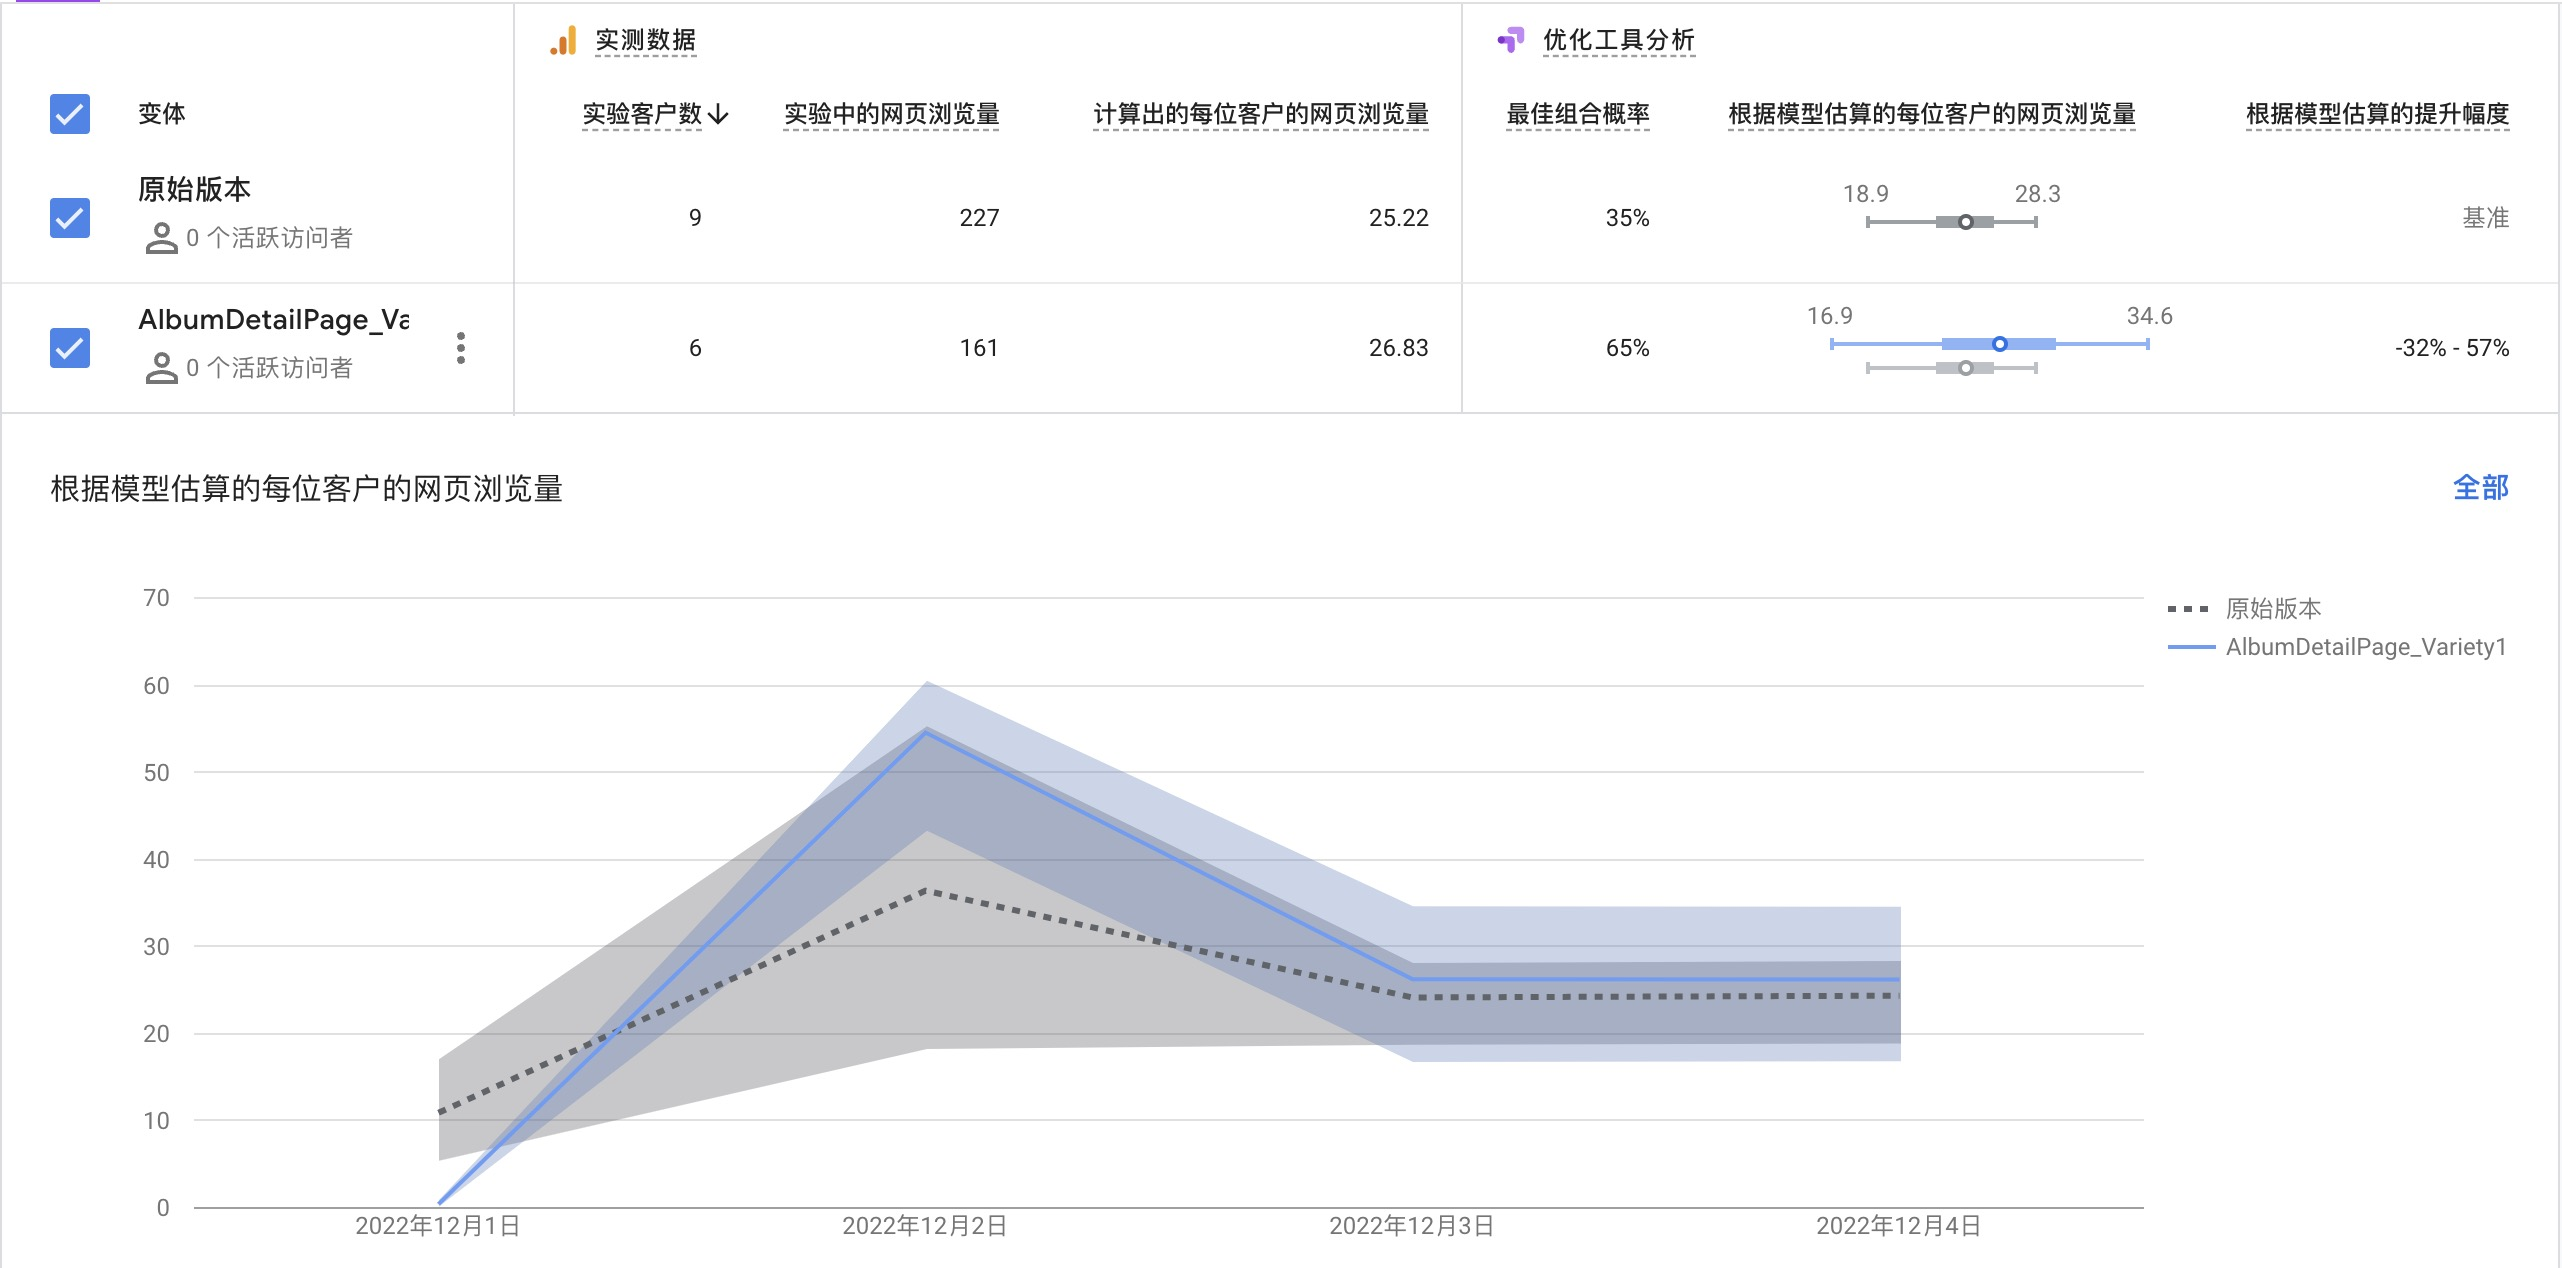
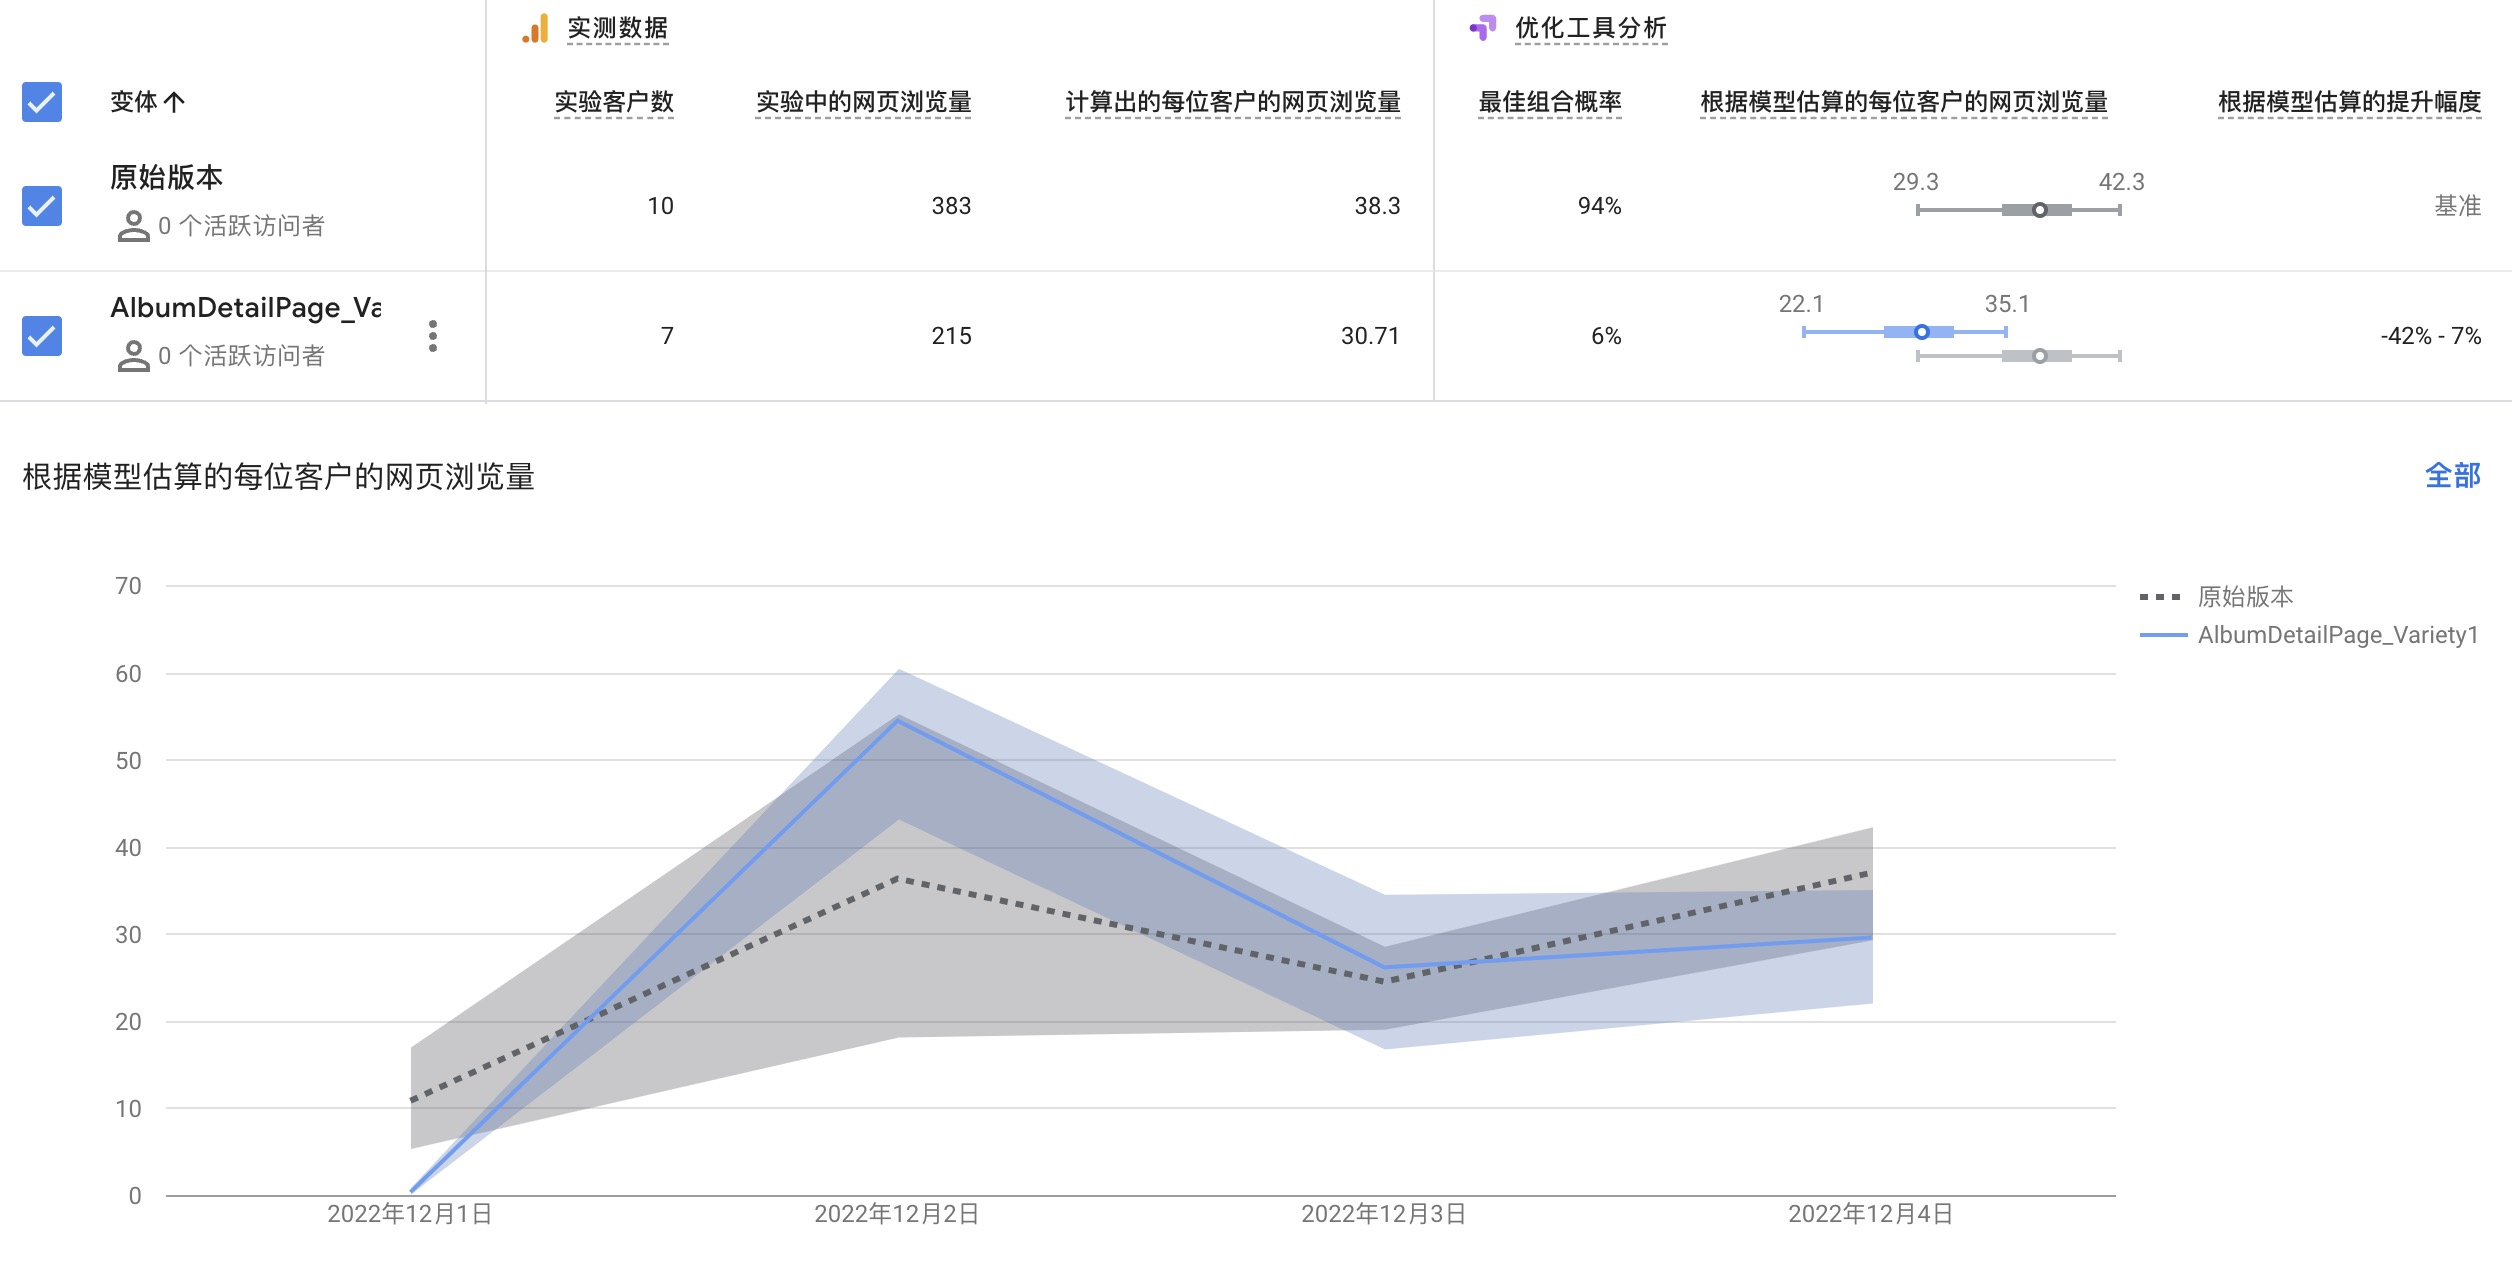
assignment5 2

diff --git a/assignment5.html b/assignment5.html
@@ -108,11 +108,11 @@
         <img class="img2" src="image_0505.jpeg"><br>
         <p class="original">Variety 1</p>
         <br>
-        The results show that variety 1 has a slightly higher duration and pageviews per session than the original version, but the overall results are similar and there is no significant difference. The probability of the best combination for variety 1 is also slightly higher than that of the original version.<br><br>
+        The results showed that variety 1 started with a slightly higher duration and number of views per view than the original version. However, as more sample data were collected, the original version gradually outperformed variety 1 and obtained a relatively higher probability of the best combination. The probability of the best combination was also slightly higher for variety 1 than for the original version.<br><br>
         <img class="img2" src="image_0506.jpeg"><br><br>
       </p>
       <p>
-        In general, by combining the results of usability test 2 and the A/B test, the card layout of the album detail page will be adjusted to expand the gap and highlight information for users to compare the information. Also, more content will be added to the album information card, including logistics channels, shipping dates, etc. In addition, based on the suggestions from the participants, I will optimize the jump function, Iframe function and community content categories to further optimize the experience of using the website.
+        In general, combining the results of usability test 2 and A/B test, the card layout of the album detail page can be slightly adjusted, but try to keep the original layout for users to find and compare information. Also, more content will be added to the album information card, including logistics channels, shipping dates, etc. In addition, based on the suggestions from the participants, I will optimize the jump function, Iframe function and community content categories to further optimize the experience of using the website.
       </p>
       <br>
       <br>
